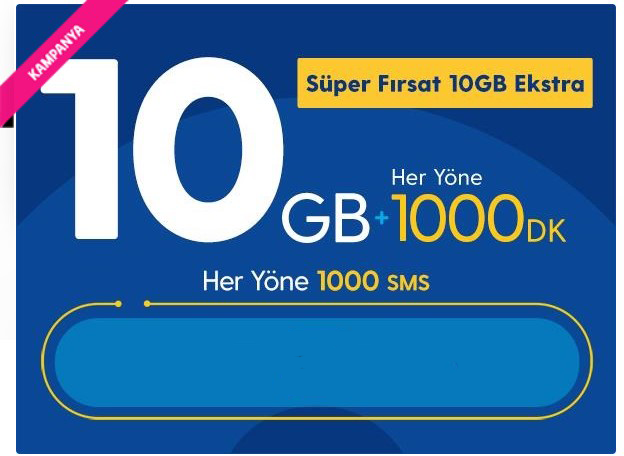
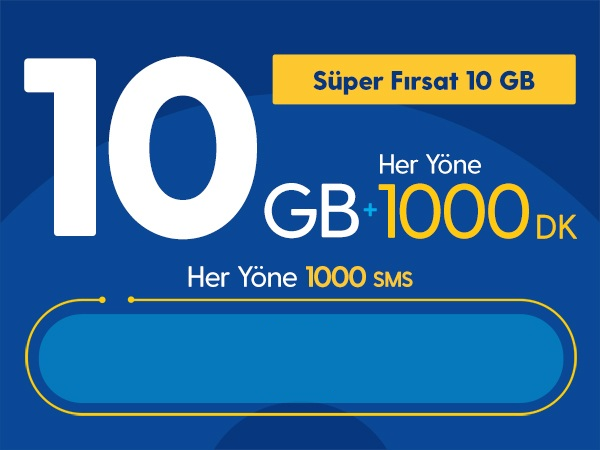
plan card | plan images updated. | azure/db

Changed region(s): [[0.0, 0.0, 1.0, 1.0]]

diff --git a/src/components/PlanCard.vue b/src/components/PlanCard.vue
@@ -1,61 +1,24 @@
 <template>
-  <div class="container rounded bg-white mt-5 mb-5 d-flex justify-content-center">
+  <div class="container mt-5 mb-5 d-flex justify-content-center">
     <div class="row">
-      <div class="col-4">
-        <div class="card p-2" style="width: 18rem">
-          <img src="../assets/plan1.png" class="card-img-top" alt="..." />
-          <div class="card-body">
-            <h6 class="text-center">Süper Fırsat 10GB +</h6>
-            <hr />
-            <p class="text-center" id="promotion-text">
-              Süper Fırsat 10GB paketiyle yüksek hızda interneti ve zengin içerikleri doya doya
-              yaşayabileceksiniz. Üstelik, her yöne 1000DK bol bol konuşma, 1000SMS, 10GB internet ile
-              iletişimin keyfini sürün.
-            </p>
-          </div>
-          <div class="d-flex justify-content-md-center">
-            <button class="btn btn-primary btn-lg mt-2">
-              <i class="bi bi-cart-plus-fill"></i>
-            </button>
-          </div>
+      <h6 class="d-flex justify-content-center">
+        Parcell paketleriyle yüksek hızda interneti ve zengin içerikleri doya doya yaşayabileceksiniz.
+      </h6>
+      <div class="card p-2 me-3 ms-4 mt-4" style="width: 18rem" v-for="plan in plan" :key="plan.id">
+        <img :src="require('@/assets/' + plan.image)" class="card-img-top" alt="..." />
+        <div class="card-body">
+          <h6 class="text-center">{{ plan.planName }}</h6>
+          <hr />
+          <p class="text-center" id="promotion-text">
+            {{ plan.planName }} paketiyle yüksek hızda interneti ve zengin içerikleri doya doya
+            yaşayabileceksiniz. Üstelik, her yöne {{ plan.minutes }} bol bol konuşma, {{ plan.sms }},
+            {{ plan.internet }} internet ile iletişimin keyfini sürün.
+          </p>
         </div>
-      </div>
-      <div class="col-4">
-        <div class="card p-2" style="width: 18rem">
-          <img src="../assets/plan2.png" class="card-img-top" alt="..." />
-          <div class="card-body">
-            <h6 class="text-center">Süper Fırsat 13GB+</h6>
-            <hr />
-            <p class="text-center" id="promotion-text">
-              Süper Fırsat 13GB+ paketiyle yüksek hızda interneti ve zengin içerikleri doya doya
-              yaşayabileceksiniz. Üstelik, her yöne 1000DK bol bol konuşma, 300SMS, 13GB internet ile
-              iletişimin keyfini sürün.
-            </p>
-          </div>
-          <div class="d-flex justify-content-md-center">
-            <button class="btn btn-primary btn-lg mt-2">
-              <i class="bi bi-cart-plus-fill"></i>
-            </button>
-          </div>
-        </div>
-      </div>
-      <div class="col-4">
-        <div class="card p-2" style="width: 18rem">
-          <img src="../assets/plan3.png" class="card-img-top" alt="..." />
-          <div class="card-body">
-            <h6 class="text-center">Süper Fırsat 20GB+</h6>
-            <hr />
-            <p class="text-center" id="promotion-text">
-              Süper Fırsat 20GB+ paketiyle yüksek hızda interneti ve zengin içerikleri doya doya
-              yaşayabileceksiniz. Üstelik, her yöne 1000DK bol bol konuşma, 300SMS, 20GB internet ile
-              iletişimin keyfini sürün.
-            </p>
-          </div>
-          <div class="d-flex justify-content-md-center">
-            <button class="btn btn-primary btn-lg mt-2">
-              <i class="bi bi-cart-plus-fill"></i>
-            </button>
-          </div>
+        <div class="d-flex justify-content-md-center">
+          <button class="btn btn-primary btn-lg">
+            <i class="bi bi-cart-plus-fill"></i>
+          </button>
         </div>
       </div>
     </div>
@@ -63,7 +26,25 @@
 </template>
 
 <script>
-export default {};
+export default {
+  data() {
+    return {
+      plan: {},
+    };
+  },
+  created() {
+    this.$appAxios
+      .get("/Plan/GetPlans")
+      .then((response) => {
+        console.log(response.data);
+        this.plan = response.data;
+        console.log(this.plan);
+      })
+      .catch((error) => {
+        console.log("There was an error" + error.response);
+      });
+  },
+};
 </script>
 
 <style lang="sass" scoped>
